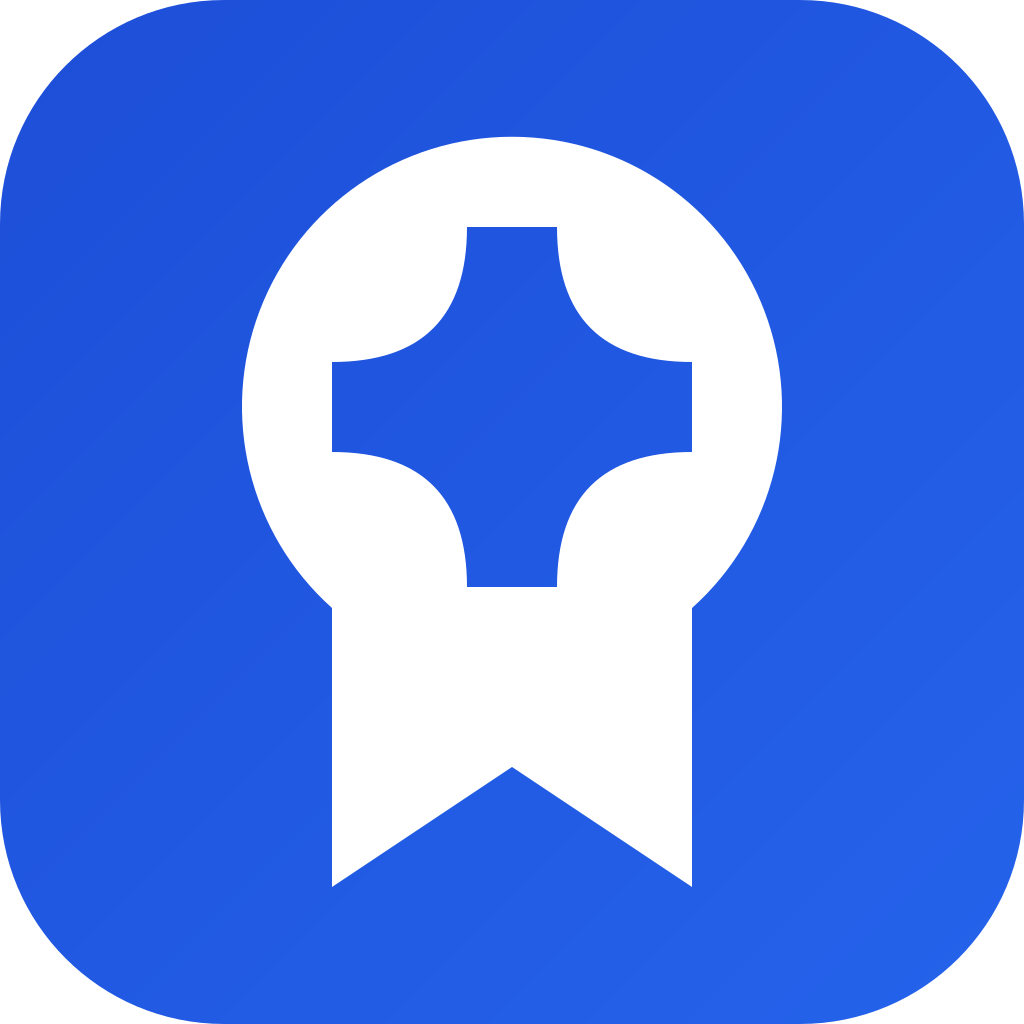
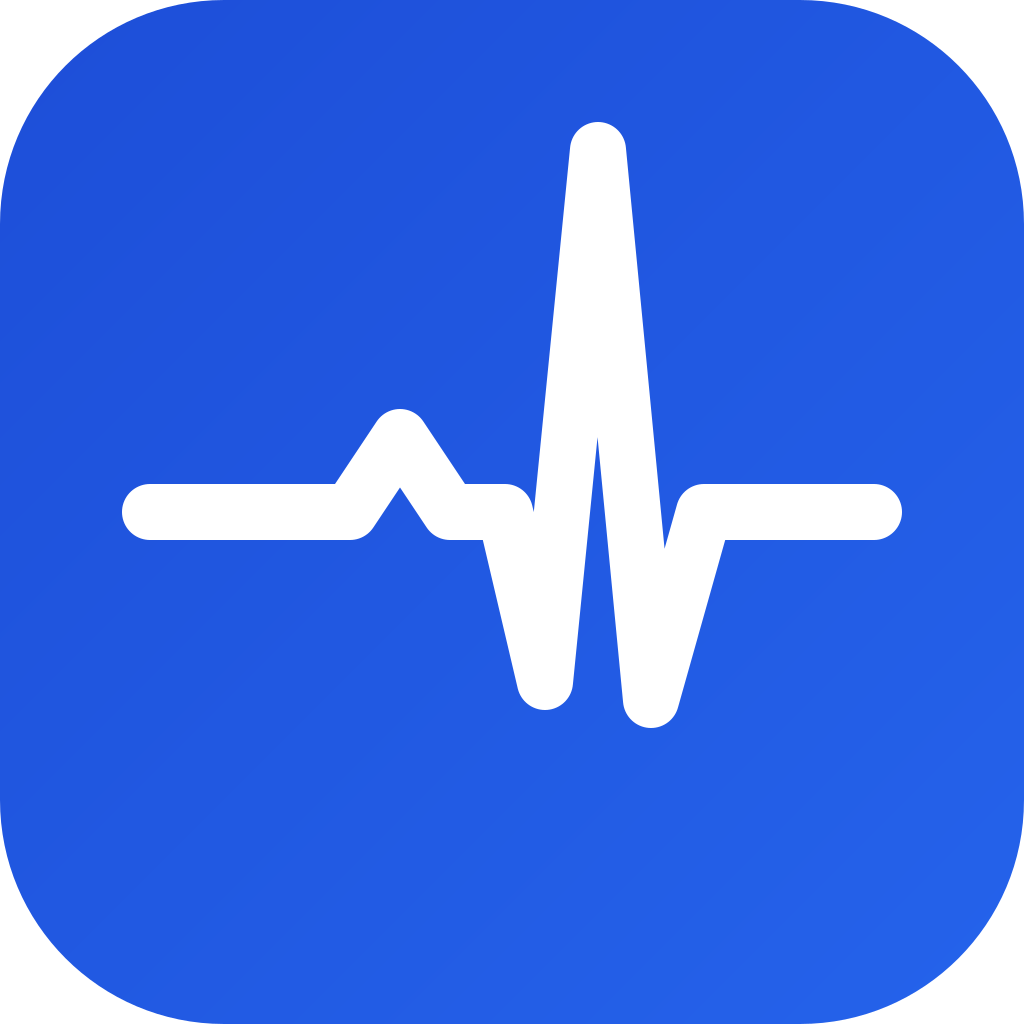
Rebrand to DocLine and redesign mark as an ECG pulse trace
Replace "Medoro" display copy with "DocLine" across metadata, all six
locale files, and outbound email copy. Redraw the logo/favicon/OG badge
glyph as a heartbeat trace, and add an animated pulse-sweep loader
(route loading state + waitlist button) that mirrors the mark's motion.

Changed region(s): [[0.125, 0.0938, 0.875, 0.875], [0.6875, 0.5312, 0.7188, 0.5938], [0.6562, 0.5938, 0.6875, 0.625]]

diff --git a/src/components/WaitlistForm.tsx b/src/components/WaitlistForm.tsx
@@ -3,6 +3,7 @@
 import { useState, type FormEvent } from "react";
 import { useLocale, useTranslations } from "next-intl";
 import { AnimatePresence, motion } from "motion/react";
+import { PulseTrace } from "./PulseLoader";
 
 type Status = "idle" | "loading" | "success" | "error";
 
@@ -100,9 +101,16 @@ export function WaitlistForm() {
                   animate={{ opacity: 1, y: 0 }}
                   exit={{ opacity: 0, y: -4 }}
                   transition={{ duration: 0.15 }}
-                  className="inline-block"
+                  className="inline-flex items-center gap-2"
                 >
-                  {status === "loading" ? t("buttonLoading") : t("button")}
+                  {status === "loading" ? (
+                    <>
+                      <PulseTrace className="h-4 w-9" />
+                      {t("buttonLoading")}
+                    </>
+                  ) : (
+                    t("button")
+                  )}
                 </motion.span>
               </AnimatePresence>
             </motion.button>

diff --git a/src/components/PulseLoader.tsx b/src/components/PulseLoader.tsx
@@ -1,0 +1,37 @@
+const PULSE_PATH =
+  "M0,30 L35,30 L48,18 L60,30 L75,30 L88,48 L102,6 L116,50 L128,30 L160,30";
+
+export function PulseTrace({ className = "h-6 w-24" }: { className?: string }) {
+  return (
+    <svg viewBox="0 0 160 60" className={className} preserveAspectRatio="none" aria-hidden="true">
+      <path
+        d={PULSE_PATH}
+        fill="none"
+        stroke="currentColor"
+        strokeWidth={4}
+        strokeLinecap="round"
+        strokeLinejoin="round"
+        opacity={0.22}
+      />
+      <path
+        d={PULSE_PATH}
+        fill="none"
+        stroke="currentColor"
+        strokeWidth={4}
+        strokeLinecap="round"
+        strokeLinejoin="round"
+        pathLength={1000}
+        className="pulse-sweep"
+      />
+    </svg>
+  );
+}
+
+export function PulseLoader() {
+  return (
+    <div className="flex min-h-[60vh] flex-col items-center justify-center gap-3 text-brand-primary">
+      <PulseTrace className="h-12 w-48" />
+      <span className="sr-only">Loading</span>
+    </div>
+  );
+}

diff --git a/src/components/Logo.tsx b/src/components/Logo.tsx
@@ -9,9 +9,12 @@ export function LogoMark({ className = "h-8 w-8" }: { className?: string }) {
       </defs>
       <rect width="1024" height="1024" rx="224" fill="url(#medoroGrad)" />
       <path
-        fill="#FFFFFF"
-        fillRule="evenodd"
-        d="M332 608A270 270 0 1 1 692 608L692 887L512 767L332 887Z M467 227L557 227Q557 362 692 362L692 452Q557 452 557 587L467 587Q467 452 332 452L332 362Q467 362 467 227Z"
+        d="M150,512 L350,512 L400,437 L450,512 L505,512 L545,682 L598,150 L651,700 L704,512 L874,512"
+        fill="none"
+        stroke="#FFFFFF"
+        strokeWidth={56}
+        strokeLinecap="round"
+        strokeLinejoin="round"
       />
     </svg>
   );
@@ -28,7 +31,7 @@ export function Logo({
     <span className={`inline-flex items-center gap-2.5 ${className}`}>
       <LogoMark className="h-8 w-8 shrink-0" />
       <span className={`text-lg font-semibold tracking-tight ${wordmarkClassName}`}>
-        Medoro
+        DocLine
       </span>
     </span>
   );

diff --git a/src/app/[locale]/opengraph-image.tsx b/src/app/[locale]/opengraph-image.tsx
@@ -37,13 +37,20 @@ export default async function OgImage({
               display: "flex",
               alignItems: "center",
               justifyContent: "center",
-              fontSize: 30,
-              fontWeight: 700,
             }}
           >
-            M
+            <svg width="34" height="34" viewBox="0 0 1024 1024">
+              <path
+                d="M150,512 L350,512 L400,437 L450,512 L505,512 L545,682 L598,150 L651,700 L704,512 L874,512"
+                fill="none"
+                stroke="#FFFFFF"
+                strokeWidth={70}
+                strokeLinecap="round"
+                strokeLinejoin="round"
+              />
+            </svg>
           </div>
-          <div style={{ fontSize: 34, fontWeight: 600 }}>Medoro</div>
+          <div style={{ fontSize: 34, fontWeight: 600 }}>DocLine</div>
         </div>
         <div
           style={{

diff --git a/src/app/api/waitlist/route.ts b/src/app/api/waitlist/route.ts
@@ -3,7 +3,7 @@ import { Resend } from "resend";
 
 const EMAIL_RE = /^[^\s@]+@[^\s@]+\.[^\s@]+$/;
 const NOTIFY_TO = process.env.WAITLIST_NOTIFY_EMAIL || "info@auxiodev.com";
-const NOTIFY_FROM = process.env.WAITLIST_FROM_EMAIL || "Medoro Waitlist <waitlist@medoroapp.com>";
+const NOTIFY_FROM = process.env.WAITLIST_FROM_EMAIL || "DocLine Waitlist <waitlist@medoroapp.com>";
 
 export async function POST(request: Request) {
   let body: unknown;
@@ -32,7 +32,7 @@ export async function POST(request: Request) {
       from: NOTIFY_FROM,
       to: NOTIFY_TO,
       replyTo: email,
-      subject: "New Medoro waitlist signup",
+      subject: "New DocLine waitlist signup",
       text: `Email: ${email}\nLocale: ${locale ?? "unknown"}\nAt: ${new Date().toISOString()}`,
     });
 

diff --git a/src/components/ForHospitals.tsx b/src/components/ForHospitals.tsx
@@ -62,7 +62,7 @@ export async function ForHospitalsCard() {
       <div className="mt-8 flex flex-col gap-4 border-t border-brand-ink-border pt-6 sm:flex-row sm:items-center sm:justify-between">
         <p className="max-w-md text-xs leading-relaxed text-slate-500">{t("pricingNote")}</p>
         <a
-          href="mailto:info@auxiodev.com?subject=Medoro%20—%20Hospital%20inquiry"
+          href="mailto:info@auxiodev.com?subject=DocLine%20—%20Hospital%20inquiry"
           className="brand-gradient shrink-0 rounded-full px-6 py-3 text-center text-sm font-semibold text-white shadow-lg shadow-blue-900/20 transition-all hover:scale-[1.03] active:scale-[0.98]"
         >
           {t("cta")}

diff --git a/src/components/ForDoctors.tsx b/src/components/ForDoctors.tsx
@@ -16,7 +16,7 @@ export async function ForDoctorsCard() {
         <p className="mt-4 text-sm leading-relaxed text-slate-400 sm:text-base">{t("body")}</p>
       </div>
       <a
-        href="mailto:info@auxiodev.com?subject=Medoro%20—%20Doctor%20application"
+        href="mailto:info@auxiodev.com?subject=DocLine%20—%20Doctor%20application"
         className="brand-gradient shrink-0 rounded-full px-6 py-3 text-sm font-semibold text-white shadow-lg shadow-blue-900/20 transition-all hover:scale-[1.03] active:scale-[0.98]"
       >
         {t("cta")}

diff --git a/src/app/[locale]/layout.tsx b/src/app/[locale]/layout.tsx
@@ -28,7 +28,7 @@ export async function generateMetadata({
     metadataBase: new URL("https://medoroapp.com"),
     title: {
       default: t("title"),
-      template: `%s · Medoro`,
+      template: `%s · DocLine`,
     },
     description: t("description"),
     alternates: {
@@ -41,7 +41,7 @@ export async function generateMetadata({
       title: t("title"),
       description: t("description"),
       url: `https://medoroapp.com/${locale}`,
-      siteName: "Medoro",
+      siteName: "DocLine",
       locale,
       type: "website",
     },

diff --git a/src/app/globals.css b/src/app/globals.css
@@ -73,3 +73,31 @@ body {
   -webkit-background-clip: text;
   color: transparent;
 }
+
+@keyframes pulse-draw {
+  0% {
+    stroke-dashoffset: 1000;
+  }
+  46% {
+    stroke-dashoffset: 0;
+  }
+  58% {
+    stroke-dashoffset: 0;
+  }
+  100% {
+    stroke-dashoffset: -1000;
+  }
+}
+
+.pulse-sweep {
+  stroke-dasharray: 1000;
+  stroke-dashoffset: 1000;
+  animation: pulse-draw 2.4s cubic-bezier(0.65, 0, 0.35, 1) infinite;
+}
+
+@media (prefers-reduced-motion: reduce) {
+  .pulse-sweep {
+    animation: none;
+    stroke-dashoffset: 0;
+  }
+}

diff --git a/src/app/[locale]/loading.tsx b/src/app/[locale]/loading.tsx
@@ -1,0 +1,5 @@
+import { PulseLoader } from "@/components/PulseLoader";
+
+export default function Loading() {
+  return <PulseLoader />;
+}
